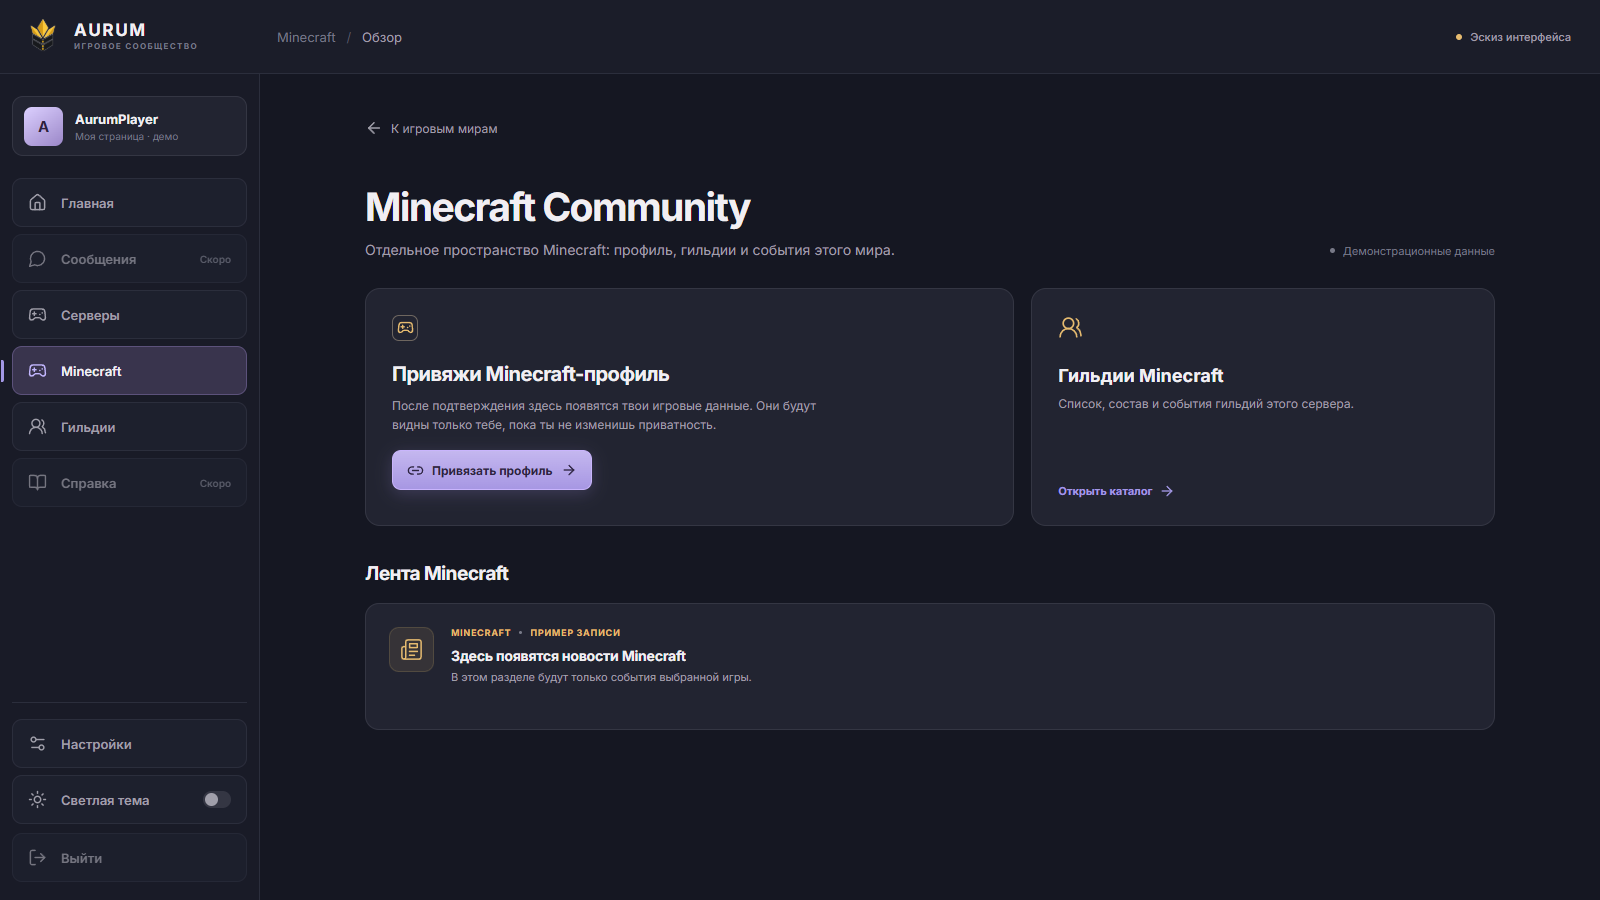
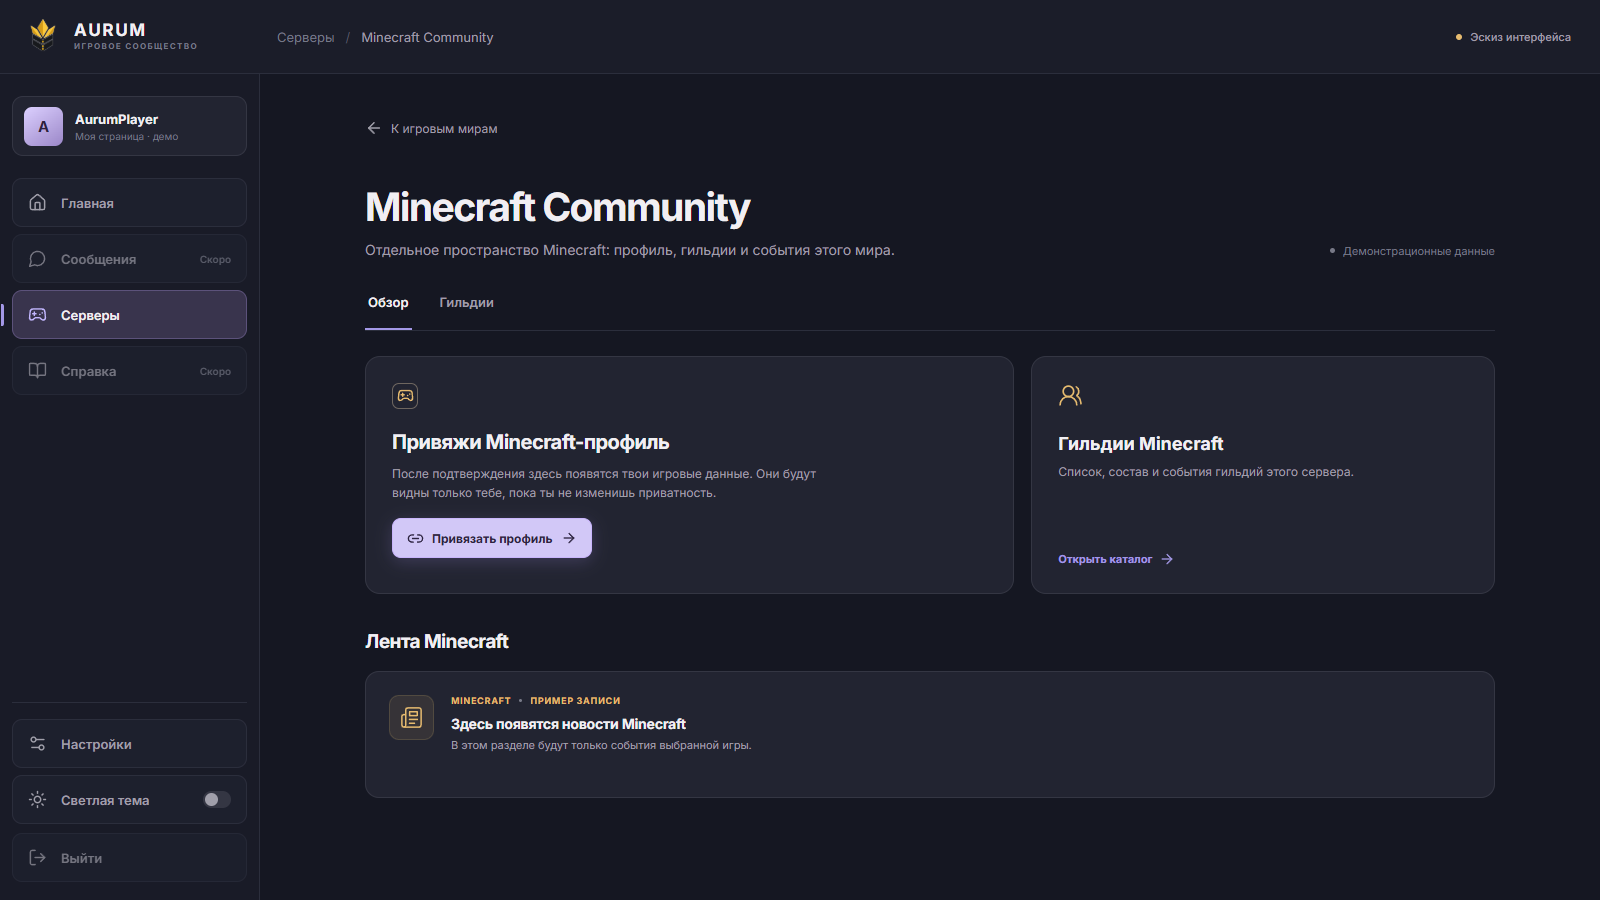
fix: keep Minecraft sections inside server navigation

diff --git a/apps/web/src/App.tsx b/apps/web/src/App.tsx
@@ -57,7 +57,7 @@ function App() {
           <span className="brand-mark"><img src="/aurum-logo.png" alt="" /></span>
           <span className="brand-text"><strong>AURUM</strong><small>ИГРОВОЕ СООБЩЕСТВО</small></span>
         </button>
-        <div className="topbar-middle"><span className="topbar-label">{inMinecraft ? 'Minecraft' : 'Сообщество'}</span><span className="topbar-separator">/</span><span>{page === 'link' ? 'Привязка профиля' : page === 'guilds' ? 'Гильдии' : page === 'minecraft' ? 'Обзор' : page === 'servers' ? 'Серверы' : page === 'profile' ? 'Моя страница' : page === 'settings' ? 'Настройки' : 'Главная'}</span></div>
+        <div className="topbar-middle"><span className="topbar-label">{page === 'minecraft' ? 'Серверы' : inMinecraft ? 'Minecraft' : 'Сообщество'}</span><span className="topbar-separator">/</span><span>{page === 'link' ? 'Привязка профиля' : page === 'guilds' ? 'Гильдии' : page === 'minecraft' ? 'Minecraft Community' : page === 'servers' ? 'Серверы' : page === 'profile' ? 'Моя страница' : page === 'settings' ? 'Настройки' : 'Главная'}</span></div>
         <span className="preview-tag"><span />Эскиз интерфейса</span>
       </header>
 
@@ -69,14 +69,10 @@ function App() {
           </button>
           <nav aria-label="Основная навигация">
             {navigation.map(({ page: target, label, icon: Icon }) => (
-              <button key={label} className={`nav-item ${target && page === target ? 'active' : ''}`} disabled={!target} title={!target ? 'Раздел появится позже' : undefined} onClick={() => target && go(target)}>
-                <Icon size={19} strokeWidth={1.8} /><span>{label}</span>{!target && <em>Скоро</em>}{target && page === target && <span className="active-notch" />}
+              <button key={label} className={`nav-item ${target && (page === target || (target === 'servers' && inMinecraft)) ? 'active' : ''}`} disabled={!target} title={!target ? 'Раздел появится позже' : undefined} onClick={() => target && go(target)}>
+                <Icon size={19} strokeWidth={1.8} /><span>{label}</span>{!target && <em>Скоро</em>}{target && (page === target || (target === 'servers' && inMinecraft)) && <span className="active-notch" />}
               </button>
             ))}
-            {inMinecraft && <>
-              <button className={`nav-item ${page === 'minecraft' || page === 'link' ? 'active' : ''}`} onClick={() => go('minecraft')}><Gamepad2 size={19} strokeWidth={1.8} /><span>Minecraft</span>{(page === 'minecraft' || page === 'link') && <span className="active-notch" />}</button>
-              <button className={`nav-item ${page === 'guilds' ? 'active' : ''}`} onClick={() => go('guilds')}><UsersRound size={19} strokeWidth={1.8} /><span>Гильдии</span>{page === 'guilds' && <span className="active-notch" />}</button>
-            </>}
             <button className="nav-item" disabled title="Раздел появится позже"><BookOpen size={19} strokeWidth={1.8} /><span>Справка</span><em>Скоро</em></button>
           </nav>
           <div className="sidebar-bottom">
@@ -87,7 +83,7 @@ function App() {
         </aside>
 
         <main className="content">
-          {page === 'link' ? <LinkPage onBack={() => go('minecraft')} /> : page === 'profile' ? <ProfilePage go={go} /> : page === 'settings' ? <SettingsPage /> : page === 'guilds' ? <ConceptPage onBack={() => go('minecraft')} /> : page === 'minecraft' ? <MinecraftPage go={go} /> : <HomePage page={page} go={go} />}
+          {page === 'link' ? <LinkPage onBack={() => go('minecraft')} /> : page === 'profile' ? <ProfilePage go={go} /> : page === 'settings' ? <SettingsPage /> : page === 'guilds' ? <ConceptPage go={go} /> : page === 'minecraft' ? <MinecraftPage go={go} /> : <HomePage page={page} go={go} />}
         </main>
       </div>
       {mobileNav && <button className="nav-scrim" aria-label="Закрыть меню" onClick={() => setMobileNav(false)} />}
@@ -140,6 +136,7 @@ function MinecraftPage({ go }: { go: (page: Page) => void }) {
   return <div className="game-page">
     <button className="back-link" onClick={() => go('servers')}><ArrowLeft size={18} /> К игровым мирам</button>
     <div className="page-intro"><div><h1>Minecraft Community</h1><p>Отдельное пространство Minecraft: профиль, гильдии и события этого мира.</p></div><div className="intro-meta"><span className="demo-dot" />Демонстрационные данные</div></div>
+    <MinecraftTabs current="minecraft" go={go} />
     <div className="game-grid">
       <section className="game-profile-card"><span className="game-icon"><Gamepad2 size={17} /></span><h2>Привяжи Minecraft-профиль</h2><p>После подтверждения здесь появятся твои игровые данные. Они будут видны только тебе, пока ты не изменишь приватность.</p><button className="button button-primary" onClick={() => go('link')}><Link2 size={17} /> Привязать профиль <ArrowRight size={16} /></button></section>
       <button className="game-guild-card" onClick={() => go('guilds')}><UsersRound size={25} strokeWidth={1.6} /><strong>Гильдии Minecraft</strong><span>Список, состав и события гильдий этого сервера.</span><span className="game-card-link">Открыть каталог <ArrowRight size={16} /></span></button>
@@ -157,8 +154,15 @@ function LinkPage({ onBack }: { onBack: () => void }) {
   return <div className="form-page"><button className="back-link" onClick={onBack}><ArrowLeft size={18} /> К Minecraft</button><div className="form-layout"><div className="form-hero"><h1>Привяжи Minecraft-профиль</h1><p>Сайт узнает, какой персонаж твой, только после подтверждения в игре. Один аккаунт сайта сможет хранить профили разных игр.</p><div className="link-steps"><div><span>1</span><p>Зайди на сервер и авторизуйся в игре.</p></div><div><span>2</span><p>Напиши <code>/aurumlink</code> или <code>/alink</code>.</p></div><div><span>3</span><p>Скопируй одноразовый код из чата и введи его здесь.</p></div></div><div className="secure-note"><ShieldCheck size={19} /> Код одноразовый и действует ограниченное время. Никому его не передавай.</div></div><div className="link-form-card"><span className="form-card-icon"><Link2 size={24} /></span><h2>Введи код из игры</h2><p>После подтверждения откроется твой Minecraft-профиль.</p><label htmlFor="link-code">ОДНОРАЗОВЫЙ КОД</label><input id="link-code" autoComplete="off" maxLength={12} value={code} onChange={event => setCode(event.target.value.toUpperCase())} placeholder="Например, AB12-CD34" /><button className="button button-primary form-submit" disabled>Привязать профиль <ArrowRight size={17} /></button><p className="form-disclaimer">Это визуальный прототип. Проверка кода будет доступна после подключения защищённого API.</p></div></div></div>;
 }
 
-function ConceptPage({ onBack }: { onBack: () => void }) {
-  return <div className="concept-page"><button className="back-link" onClick={onBack}><ArrowLeft size={18} /> К Minecraft</button><h1>Гильдии Minecraft</h1><p>Здесь появится список гильдий этого сервера, поиск и доступные тебе действия — с учётом приватности каждой гильдии.</p><div className="concept-card"><span><UsersRound size={25} /></span><div><strong>Раздел пока в разработке</strong><p>Это эскиз внешнего вида. Реальные данные и действия появятся после подключения защищённого API.</p></div></div></div>;
+function MinecraftTabs({ current, go }: { current: 'minecraft' | 'guilds'; go: (page: Page) => void }) {
+  return <nav className="game-tabs" aria-label="Разделы Minecraft">
+    <button className={current === 'minecraft' ? 'active' : ''} aria-current={current === 'minecraft' ? 'page' : undefined} onClick={() => go('minecraft')}>Обзор</button>
+    <button className={current === 'guilds' ? 'active' : ''} aria-current={current === 'guilds' ? 'page' : undefined} onClick={() => go('guilds')}>Гильдии</button>
+  </nav>;
+}
+
+function ConceptPage({ go }: { go: (page: Page) => void }) {
+  return <div className="concept-page"><button className="back-link" onClick={() => go('servers')}><ArrowLeft size={18} /> К игровым мирам</button><h1>Гильдии Minecraft</h1><p>Здесь появится список гильдий этого сервера, поиск и доступные тебе действия — с учётом приватности каждой гильдии.</p><MinecraftTabs current="guilds" go={go} /><div className="concept-card"><span><UsersRound size={25} /></span><div><strong>Раздел пока в разработке</strong><p>Это эскиз внешнего вида. Реальные данные и действия появятся после подключения защищённого API.</p></div></div></div>;
 }
 
 function SettingsPage() {

diff --git a/apps/web/src/styles.css b/apps/web/src/styles.css
@@ -177,6 +177,10 @@ code { color: var(--gold); font-family: inherit; font-weight: 600; }
 
 .game-page { max-width: 1130px; margin: 0 auto; }
 .game-page .page-intro { margin-bottom: 27px; }
+.game-tabs { display: flex; gap: 25px; border-bottom: 1px solid var(--border-soft); margin-bottom: 25px; }
+.game-tabs button { min-height: 42px; padding: 0 3px 11px; border: 0; border-bottom: 2px solid transparent; background: none; color: var(--muted); font-size: 13px; font-weight: 600; }
+.game-tabs button:hover { color: var(--text); }
+.game-tabs button.active { color: var(--text); border-bottom-color: var(--violet); }
 .game-grid { display: grid; grid-template-columns: minmax(0, 1.4fr) minmax(230px, 1fr); gap: 17px; }
 .game-profile-card, .game-guild-card { min-height: 238px; padding: 26px; border: 1px solid var(--border); border-radius: 15px; background: var(--panel); }
 .game-profile-card > .game-icon { margin-bottom: 21px; color: var(--gold); }
@@ -225,7 +229,8 @@ code { color: var(--gold); font-family: inherit; font-weight: 600; }
 .concept-page { max-width: 720px; }
 .concept-page h1 { font-size: 38px; letter-spacing: -.04em; margin: 0 0 12px; }
 .concept-page > p { color: var(--muted); font-size: 14px; line-height: 1.65; max-width: 620px; }
-.concept-card { display: flex; align-items: flex-start; gap: 17px; margin-top: 37px; border: 1px solid var(--border); background: var(--panel); border-radius: 14px; padding: 23px; }
+.concept-page .game-tabs { margin-top: 25px; }
+.concept-card { display: flex; align-items: flex-start; gap: 17px; border: 1px solid var(--border); background: var(--panel); border-radius: 14px; padding: 23px; }
 .concept-card > span { display: flex; justify-content: center; align-items: center; width: 45px; height: 45px; border-radius: 10px; color: var(--gold); background: rgba(222,184,108,.10); flex: 0 0 auto; }
 .concept-card strong { display: block; font-size: 14px; margin: 2px 0 6px; }
 .concept-card p { color: var(--muted); font-size: 12px; line-height: 1.55; margin: 0; }

diff --git a/README.md b/README.md
@@ -6,7 +6,9 @@
 
 В `apps/web` находится интерактивный визуальный прототип: глобальная главная с выбором игры и общей лентой, отдельное пространство Minecraft с гильдиями, личная страница, экран привязки и светлая тема. Все данные демонстрационные. Регистрации, реальной привязки, базы данных и деплоя пока нет; кнопки подтверждения кода и выхода намеренно неактивны.
 
-Скриншоты: [главная 16:9](docs/previews/home-16x9.png), [главная 9:16](docs/previews/home-9x16.png), [открытое меню 9:16](docs/previews/menu-9x16.png), [Minecraft 16:9](docs/previews/minecraft-16x9.png) и [светлая тема 16:9](docs/previews/home-light-16x9.png).
+Скриншоты одинаковых экранов: [главная 16:9](docs/previews/home-16x9.png) и [9:16](docs/previews/home-9x16.png); [Minecraft 16:9](docs/previews/minecraft-16x9.png) и [9:16](docs/previews/minecraft-9x16.png). Отдельно: [открытое мобильное меню](docs/previews/menu-9x16.png) и [светлая тема](docs/previews/home-light-16x9.png).
+
+Навигация: «Главная» — общая лента и карточки игр; «Серверы» — каталог игровых миров. Minecraft Community открывается из карточки сервера. Его «Обзор» и «Гильдии» — вкладки внутри страницы сервера, а не отдельные пункты общего меню.
 
 Локальный запуск: Node.js 22+, pnpm 11, `pnpm install`, `pnpm dev`. Проверка сборки: `pnpm build`.
 

diff --git a/design/home-brief.md b/design/home-brief.md
@@ -10,7 +10,7 @@ The first signed-in screen is a global portal before choosing a game. It must ex
 
 **First viewport:** Top identity bar, left navigation with avatar and nickname above larger rectangular controls, a Minecraft game card in the main column, shared feed below, and a compact orientation panel on the right. No global guild navigation. The server card carries abstract block-world geometry, not an invented screenshot or data.
 
-**Signature interaction:** A player opens Minecraft from its card, then sees Minecraft-only guild navigation and a route to link the profile. The one-time code form is intentionally non-submitting until the secure API exists. A lower-left theme toggle persists locally; logout stays disabled until real authentication exists.
+**Signature interaction:** A player opens Minecraft from its server card. The global sidebar keeps Servers selected; Overview and Guilds appear as tabs inside the Minecraft page, alongside a route to link the profile. The one-time code form is intentionally non-submitting until the secure API exists. A lower-left theme toggle persists locally; logout stays disabled until real authentication exists.
 
 **Visual grammar:** Inter, restrained dark neutrals, Aurum gold for game identity, panel violet for active navigation and primary actions; one consistent rounded control vocabulary. The same layout has a light theme. Useful focus states and mobile reflow. Reduced-motion preference is respected.
 

diff --git a/PRODUCT.md b/PRODUCT.md
@@ -24,7 +24,7 @@ One site identity joins several game profiles while game plugins remain authorit
 
 ## Operating Context
 
-After signing in, players land on a global home with game cards and a shared community news feed. Choosing Minecraft opens its own space; Minecraft guild navigation and its game-specific feed live there, not on the global home. Minecraft players obtain a short-lived, single-use link code with an in-game command after AurumAuth has authenticated them; the chat message also offers a link to the site. Players can browse Minecraft guilds, subject to each guild's privacy settings, and use website features even when not in-game where the bridge safely supports it.
+After signing in, players land on a global home with game cards and a shared community news feed. The global Servers section lists game worlds; choosing Minecraft opens its server space. Overview and Guilds are contextual tabs within that server space, not extra entries in global navigation. The game-specific feed lives there, not on the global home. Minecraft players obtain a short-lived, single-use link code with an in-game command after AurumAuth has authenticated them; the chat message also offers a link to the site. Players can browse Minecraft guilds, subject to each guild's privacy settings, and use website features even when not in-game where the bridge safely supports it.
 
 ## Capabilities and Constraints
 
